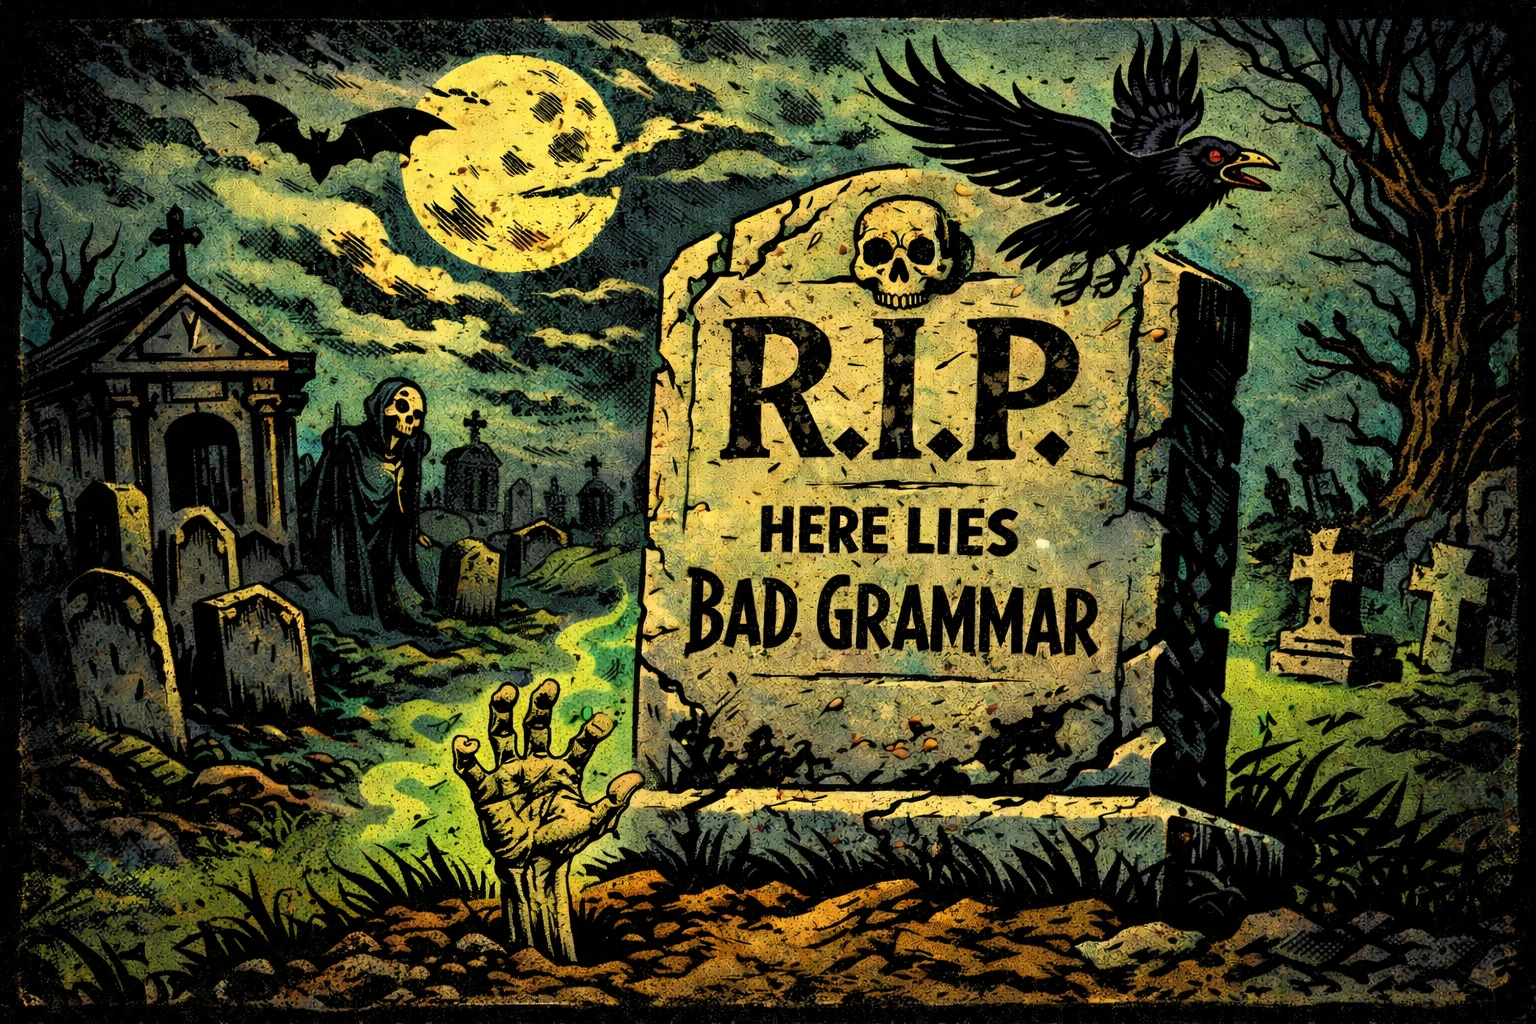
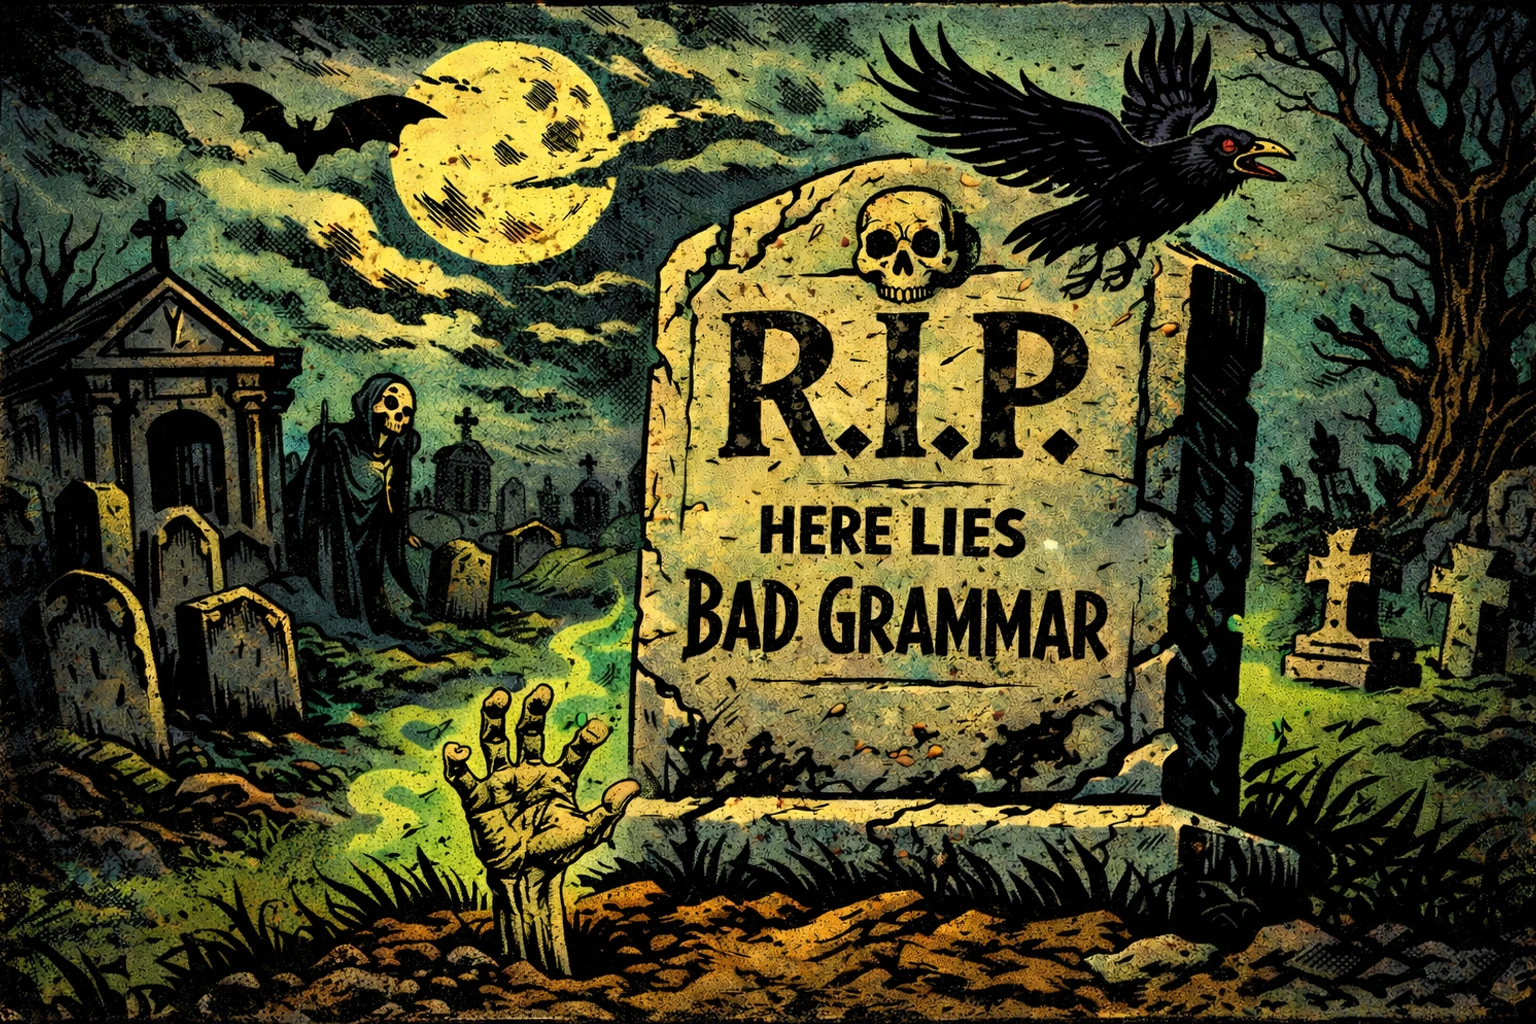
Replace all five game scenes with updated artwork

diff --git a/scripts/optimize_images.py b/scripts/optimize_images.py
@@ -6,7 +6,7 @@ root = Path(__file__).resolve().parent.parent
 output = root / "images" / "web"
 output.mkdir(exist_ok=True)
 for name in ("start", "first_error", "second_error", "game_lost", "game_won"):
-    source = "game_lost_new" if name == "game_lost" else name
+    source = "game_lost_new_v2" if name == "game_lost" else f"{name}_v2"
     with Image.open(root / "images" / f"{source}.png") as image:
         image.save(output / f"{name}.webp", "WEBP", quality=90, method=6)
     print(f"Created {name}.webp")

diff --git a/README.md b/README.md
@@ -54,17 +54,17 @@ To add a playable entry, provide nonempty `pastSimple` and `pastParticiple` arra
 
 ## Artwork
 
-The located source files are named without the `(1)` suffix:
+The current supplied artwork sources and their optimized game copies are:
 
 | State | Preserved original | Game copy |
 | --- | --- | --- |
-| Start | `images/start.png` | `images/web/start.webp` |
-| First mistake | `images/first_error.png` | `images/web/first_error.webp` |
-| Second mistake | `images/second_error.png` | `images/web/second_error.webp` |
-| Defeat | `images/game_lost_new.png` | `images/web/game_lost.webp` |
-| Victory | `images/game_won.png` | `images/web/game_won.webp` |
+| Start | `images/start_v2.png` | `images/web/start.webp` |
+| First mistake | `images/first_error_v2.png` | `images/web/first_error.webp` |
+| Second mistake | `images/second_error_v2.png` | `images/web/second_error.webp` |
+| Defeat | `images/game_lost_new_v2.png` | `images/web/game_lost.webp` |
+| Victory | `images/game_won_v2.png` | `images/web/game_won.webp` |
 
-All retain their original 1536 × 1024 dimensions and composition. The WebP copies total about 3 MB instead of about 16 MB of PNGs. All five are preloaded and decoded; an already-loaded image replaces the previous scene, preserving the scene during a slow transition. Full 3:2 illustrations appear beside the controls on desktop and above them on smaller screens. The defeat copy uses the supplied `game_lost_new.png`; the earlier `game_lost.png` is also preserved. Artwork feedback captions use 20 px text on desktop and 18 px on phones.
+All retain their original 1536 × 1024 dimensions and composition. WebP copies reduce download size while preserving the supplied artwork. All five are preloaded and decoded; an already-loaded image replaces the previous scene, preserving the scene during a slow transition. Full 3:2 illustrations appear beside the controls on desktop and above them on smaller screens. Earlier PNG artwork is also preserved. Artwork feedback captions use 20 px text on desktop and 18 px on phones.
 
 If replacing artwork, keep matching filenames. To regenerate WebP copies from originals, optionally install Python and Pillow (`python -m pip install Pillow`), then run `python scripts/optimize_images.py`. Python and Pillow are not needed to run, build, or test the delivered game.
 
